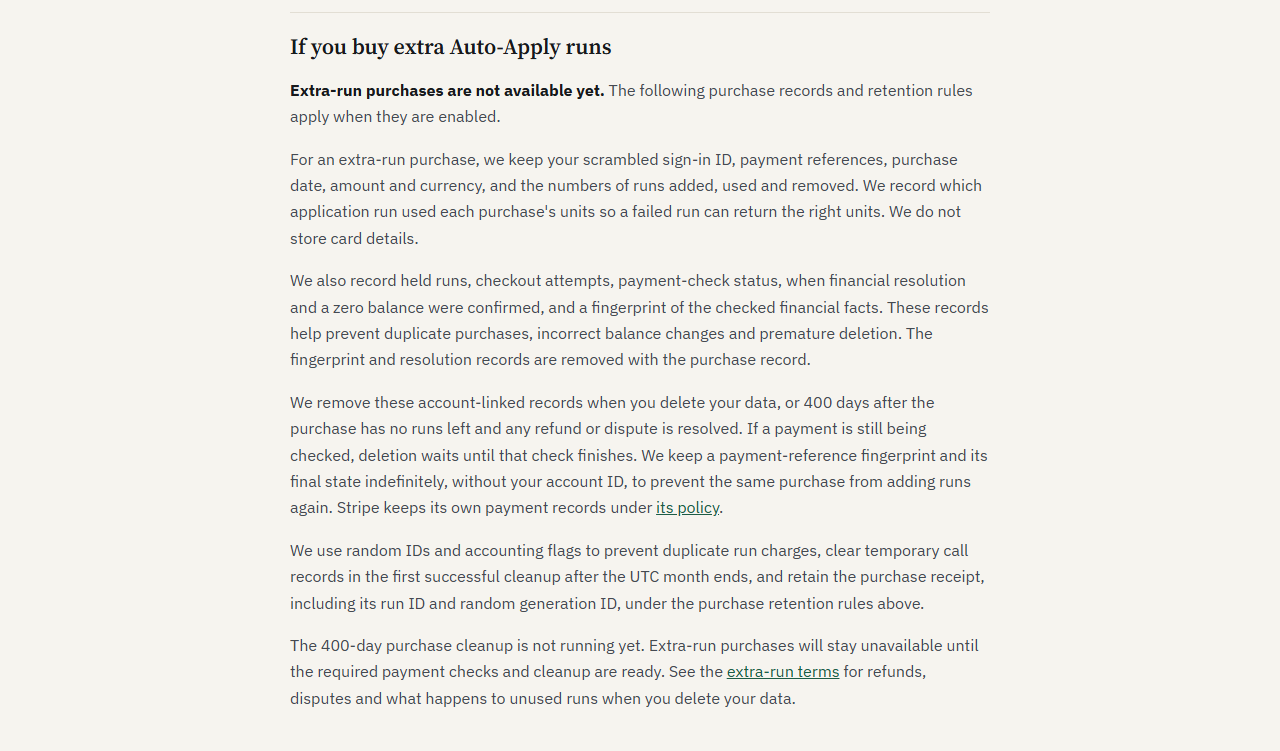
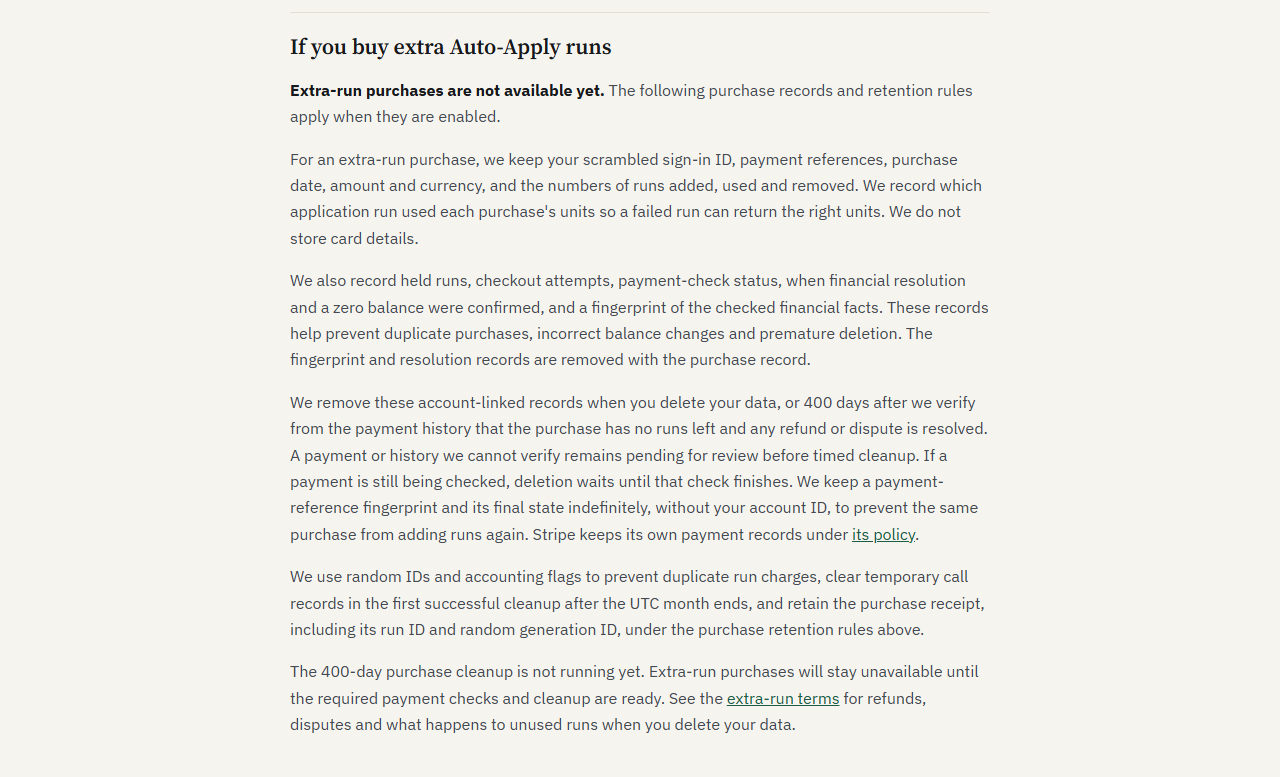
Clarify verified history before timed top-up cleanup

Changed region(s): [[0.2188, 0.0306, 0.7812, 0.8269], [0.2188, 0.8575, 0.7812, 0.9494]]

diff --git a/docs/privacy.html b/docs/privacy.html
@@ -486,7 +486,7 @@
     <p><strong>Extra-run purchases are not available yet.</strong> The following purchase records and retention rules apply when they are enabled.</p>
     <p>For an extra-run purchase, we keep your scrambled sign-in ID, payment references, purchase date, amount and currency, and the numbers of runs added, used and removed. We record which application run used each purchase's units so a failed run can return the right units. We do not store card details.</p>
     <p>We also record held runs, checkout attempts, payment-check status, when financial resolution and a zero balance were confirmed, and a fingerprint of the checked financial facts. These records help prevent duplicate purchases, incorrect balance changes and premature deletion. The fingerprint and resolution records are removed with the purchase record.</p>
-    <p>We remove these account-linked records when you delete your data, or 400 days after the purchase has no runs left and any refund or dispute is resolved. If a payment is still being checked, deletion waits until that check finishes. We keep a payment-reference fingerprint and its final state indefinitely, without your account ID, to prevent the same purchase from adding runs again. Stripe keeps its own payment records under <a href="https://stripe.com/privacy" target="_blank" rel="noopener">its policy</a>.</p>
+    <p>We remove these account-linked records when you delete your data, or 400 days after we verify from the payment history that the purchase has no runs left and any refund or dispute is resolved. A payment or history we cannot verify remains pending for review before timed cleanup. If a payment is still being checked, deletion waits until that check finishes. We keep a payment-reference fingerprint and its final state indefinitely, without your account ID, to prevent the same purchase from adding runs again. Stripe keeps its own payment records under <a href="https://stripe.com/privacy" target="_blank" rel="noopener">its policy</a>.</p>
     <p>We use random IDs and accounting flags to prevent duplicate run charges, clear temporary call records in the first successful cleanup after the UTC month ends, and retain the purchase receipt, including its run ID and random generation ID, under the purchase retention rules above.</p>
     <p>The 400-day purchase cleanup is not running yet. Extra-run purchases will stay unavailable until the required payment checks and cleanup are ready. See the <a href="terms.html#topups">extra-run terms</a> for refunds, disputes and what happens to unused runs when you delete your data.</p>
 

diff --git a/notes/product/P-2.2al-public-disclosures.md b/notes/product/P-2.2al-public-disclosures.md
@@ -22,3 +22,7 @@ Real offline Edge captures show both pages before and after at 1280 and 375 pixe
 The isolated production golden harness builds both versions with synthetic fixtures and network denied. The before build matches all 836 committed hashes. Only `privacy.html` and `terms.html` differ afterward. The shared manifest/archive are deliberately untouched until the #429/#461 fixture handoff. See the screenshot README and build report. This draft is not merge-ready until that coordinated refresh and exact independent review are complete.
 
 Final local qualification: all 351 site tests pass under Node22 serial execution. The final isolated build again matches the baseline and changes only the two policy pages. All 16 captures pass overflow/error checks. Startup budget, scoped Python lint/format and whitespace checks pass. The shared golden pair remains unchanged by explicit coordination.
+
+Independent wording review clarified that the 400-day start requires verified zero balance and financial resolution from payment history. Unverified payment or history remains pending review before timed cleanup. This preserves the approved period and the separate account-deletion path. It does not promise timed erasure for ambiguous or unprovable loss/appeal histories. Only the four after-privacy captures are refreshed for this correction, preserving every before image and all terms images.
+
+The corrected isolated build passes again: all 836 baseline hashes match and only privacy.html and terms.html change. The refreshed privacy captures pass in both widths/themes. This correction is held locally for the coordinated new-base/shared-golden handoff, with no remote push or shared-fixture change.
